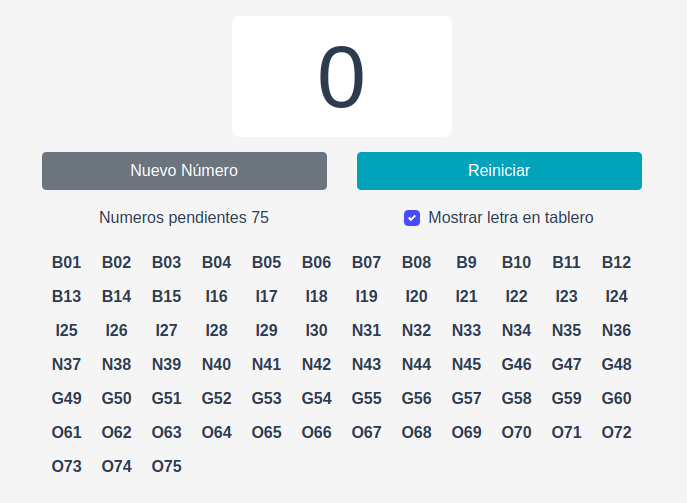
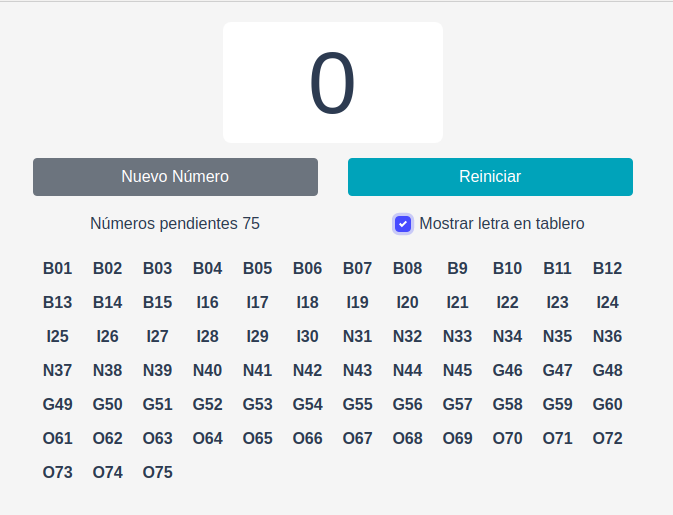
Add preview link

diff --git a/src/App.vue b/src/App.vue
@@ -18,7 +18,7 @@
       </div>
       <div class="col-6">
         <span class="d-block mt-3">
-          Numeros pendientes
+          Números pendientes
           {{ pendientes }}
         </span>
       </div>

diff --git a/README.md b/README.md
@@ -2,3 +2,6 @@
 ##### Board to generate numbers of a bingo
 
 ![Alt text](src/assets/Example.png?raw=true "Board")
+
+### Demo:
+[Live Demo](https://luisfercho.github.io/vue-bingo/)
